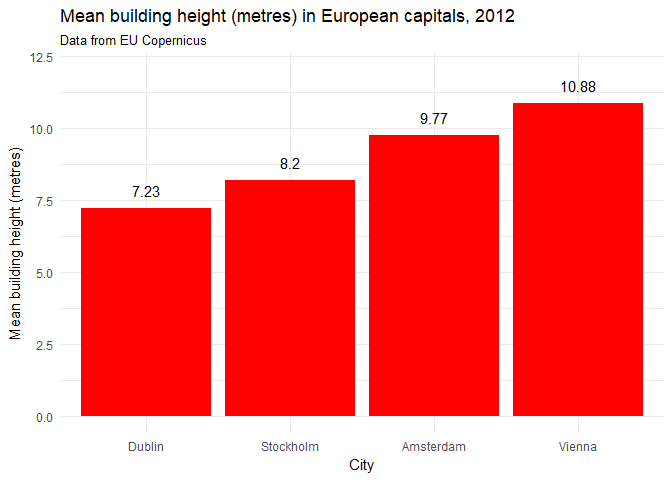
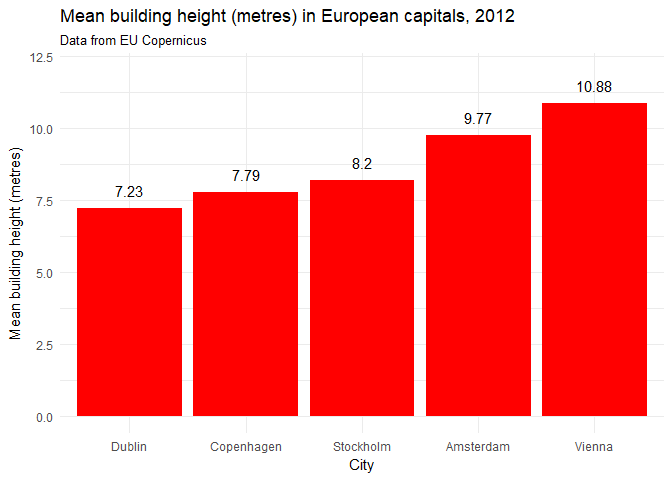
Updated plots to add Copenhagen

diff --git a/Building_height_analysis.md b/Building_height_analysis.md
@@ -197,6 +197,14 @@ Stockholm
 8.20
 </td>
 </tr>
+<tr>
+<td style="text-align:left;">
+Copenhagen
+</td>
+<td style="text-align:right;">
+7.79
+</td>
+</tr>
 </tbody>
 </table>
 And we can produce a faceted plot comparing how building heights vary with distance from the calculated city centre. For the purposes of plotting, we again take 5% samples and exclude any zero/NA values. The trend lines here are esimated using the `gam` for `generalised additive model`.
